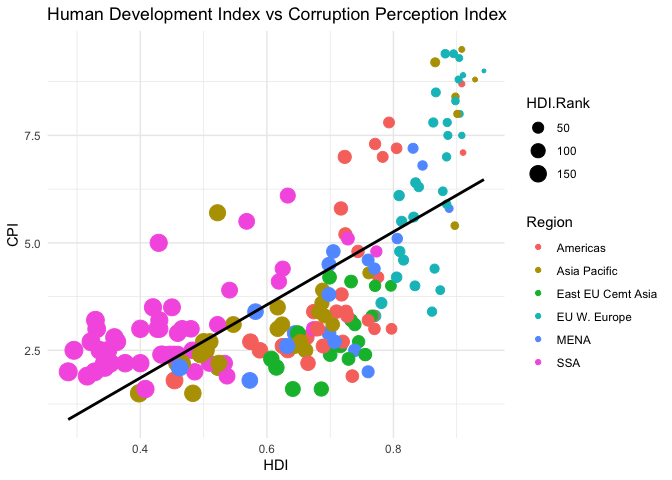
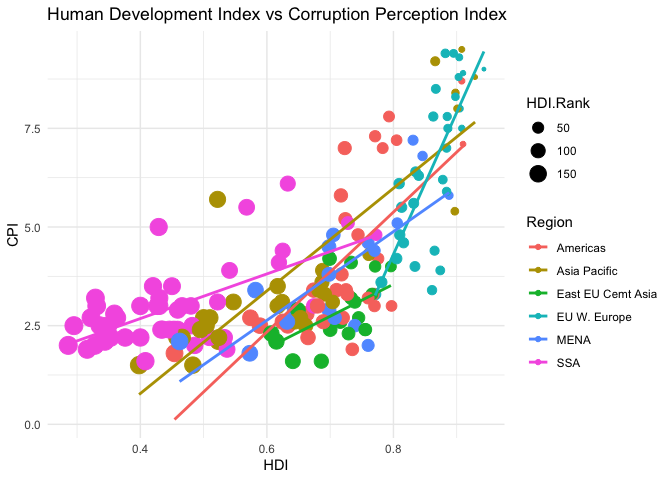
Assignment 4, done with question 1, commit.

diff --git a/assignment_4.md b/assignment_4.md
@@ -294,7 +294,17 @@ economist_data |> ## same workflow from Thurs Class
 #### 1.7 Fit a separate **straight line** for **each region** instead, and turn off the confidence interval.
 
 ``` r
-## Write your code here
+economist_data |> ## same workflow from Thurs Class
+  select(Country, HDI, CPI, Region, HDI.Rank) |> ## selecting what I want to use 
+  ggplot() + ## don't have to add ^^ or do it same way as base "r"
+  geom_point(mapping = aes(x = HDI, y = CPI, color = Region, size = HDI.Rank)) + ## need to keep track of ()
+  geom_smooth(mapping = aes(x = HDI, y = CPI, color = Region), method = "lm", se = FALSE)+
+  labs(
+    title = "Human Development Index vs Corruption Perception Index",
+    x = "HDI",
+    y = "CPI"
+  ) + 
+  theme_minimal() ## I like how it looks 
 ```
 
 ``` r
@@ -302,7 +312,7 @@ economist_data |> ## same workflow from Thurs Class
   select(Country, HDI, CPI, Region, HDI.Rank) |> ## selecting what I want to use 
   ggplot() + ## don't have to add ^^ or do it same way as base "r"
   geom_point(mapping = aes(x = HDI, y = CPI, color = Region, size = HDI.Rank)) + ## need to keep track of ()
-  geom_smooth(mapping = aes(x = HDI, y = CPI), method = "lm", se = FALSE, color="black")+
+  geom_smooth(mapping = aes(x = HDI, y = CPI, color = Region), method = "lm", se = FALSE)+
   labs(
     title = "Human Development Index vs Corruption Perception Index",
     x = "HDI",
@@ -319,17 +329,74 @@ economist_data |> ## same workflow from Thurs Class
 
 ``` r
 ## Write your code here
+economist_data |> ## going to stop commenting
+  select(Country, HDI, CPI, Region, HDI.Rank) |> 
+  ggplot() + 
+  geom_point(mapping = aes(x = HDI, y = CPI, color = Region, size = HDI.Rank)) + 
+  geom_smooth(mapping = aes(x = HDI, y = CPI, color = Region), method = "lm", se = FALSE)+
+  facet_wrap(~ Region) +
+  labs(
+
+    title = "Human Development Index vs Corruption Perception Index",
+    x = "HDI",
+    y = "CPI"
+  ) + 
+  theme_minimal() 
 ```
 
-<br>
+``` r
+economist_data |> ## going to stop commenting
+  select(Country, HDI, CPI, Region, HDI.Rank) |> 
+  ggplot() + 
+  geom_point(mapping = aes(x = HDI, y = CPI, color = Region, size = HDI.Rank)) + 
+  geom_smooth(mapping = aes(x = HDI, y = CPI, color = Region), method = "lm", se = FALSE)+
+  facet_wrap(~ Region) +
+  labs(
+
+    title = "Human Development Index vs Corruption Perception Index",
+    x = "HDI",
+    y = "CPI"
+  ) + 
+  theme_minimal() 
+```
+
+    `geom_smooth()` using formula = 'y ~ x'
+
+![](assignment_4_files/figure-commonmark/unnamed-chunk-10-1.png)
 
 #### 1.9 Show the distribution of `HDI` in each region using density plot. Set the transparency to 0.5
 
 ``` r
 ## Write your code here
+?geom_density()
+economist_data |> ## what i'm building off of 
+  select(Country, HDI, Region,) |> 
+  ggplot() + 
+  geom_density(mapping = aes(x = HDI, fill = Region, alpha = 0.5 )) +
+    labs(
+
+    title = "Human Development Index vs Corruption Perception Index",
+    x = "HDI",
+    y = "Density"
+  ) + 
+  theme_minimal() 
 ```
 
-<br>
+``` r
+economist_data |> ## what i'm building off of 
+  select(Country, HDI, Region,) |> 
+  ggplot() + 
+  geom_density(mapping = aes(x = HDI, fill = Region, alpha = 0.5 )) +
+    labs(
+
+    title = "Human Development Index vs Corruption Perception Index",
+    x = "HDI",
+    y = "Density"
+  ) + 
+  theme_minimal() 
+```
+
+![](assignment_4_files/figure-commonmark/unnamed-chunk-11-1.png)
 
 #### 1.10 Show the distribution of `HDI` in each region using histogram and facetting.
 
@@ -337,15 +404,74 @@ economist_data |> ## same workflow from Thurs Class
 ## Write your code here
 ```
 
+``` r
+economist_data |> 
+  select(Country, HDI, Region) |> 
+  ggplot() + 
+  geom_histogram (mapping = aes(x = HDI)) +
+  facet_wrap(~Region) + 
+    labs(
+    title = "Human Development Index vs Corruption Perception Index",
+    x = "HDI",
+    y = "Count"
+  ) + 
+  theme_minimal() 
+```
+
+    `stat_bin()` using `bins = 30`. Pick better value with `binwidth`.
+
+![](assignment_4_files/figure-commonmark/unnamed-chunk-12-1.png)
+
 <br>
 
 #### 1.11 Show the distribution of `HDI` in each region using a box plot. Set the transparency of these boxes to 0.5 and do not show outlier points with the box plot. Instead, show all data points for each country in the same plot. (Hint: `geom_jitter()` or `position_jitter()` might be useful.)
 
 ``` r
 ## Write your code here
+economist_data |> ## from Data Wrangling
+  select(Country, HDI, Region) |> 
+  ggplot() + 
+  geom_boxplot(
+    mapping = aes(x = Region, y = HDI), 
+    alpha = 0.5, # turning transpercy to 0.5                     
+  ) +
+  geom_jitter(
+    mapping = aes(x = Region, y = HDI),   
+    alpha = 0.7,                          
+    color = "black",                      
+    size = 2
+  ) +
+  labs(
+    title = "HDI by Region",
+    x = "Region",
+    y = "HDI"
+  ) + 
+  theme_minimal()
 ```
 
-<br>
+``` r
+economist_data |> ## from Data Wrangling
+  select(Country, HDI, Region) |> 
+  ggplot() + 
+  geom_boxplot(
+    mapping = aes(x = Region, y = HDI), 
+    alpha = 0.5, # turning transpercy to 0.5                     
+  ) +
+  geom_jitter(
+    mapping = aes(x = Region, y = HDI),   
+    alpha = 0.7,                          
+    color = "black",                      
+    size = 2
+  ) +
+  labs(
+    title = "HDI by Region",
+    x = "Region",
+    y = "HDI"
+  ) + 
+  theme_minimal()
+```
+
+![](assignment_4_files/figure-commonmark/unnamed-chunk-13-1.png)
 
 #### 1.12 Show the count of countries in each region using a bar plot.
 
@@ -353,13 +479,31 @@ economist_data |> ## same workflow from Thurs Class
 ## Write your code here
 ```
 
-<br>
+``` r
+economist_data |> 
+  select(Country, HDI, Region) |> 
+  ggplot() + 
+  geom_bar(mapping = aes( x = Region, fill = Region)) + 
+             labs(
+               title = "Count of Countries in Region",
+               x = "Region",
+               y = "Countries"
+               ) + 
+             theme_minimal()
+```
+
+![](assignment_4_files/figure-commonmark/unnamed-chunk-14-1.png)
 
 #### 1.13 You have now created a variety of different plots of the same dataset. Which of your plots do you think are the most informative? Describe briefly the major trends that you see in the data.
 
-Answer: *Write your response here*.
+Answer: Even though it is a lot of information, I like the Human
+Development Index vs Corruption Perception Index with dots proportional
+to HDI rank because I think it helps us identify the distribution in a
+helpful way.
 
-<br> <br>
+Some trends: HDI is generally a higher value in what we would consider
+“wealthy” or traditionally colonial countries. There is more variability
+of HDI within regions than between regions.
 
 ## Exercise 2. Theophylline experiment
 
